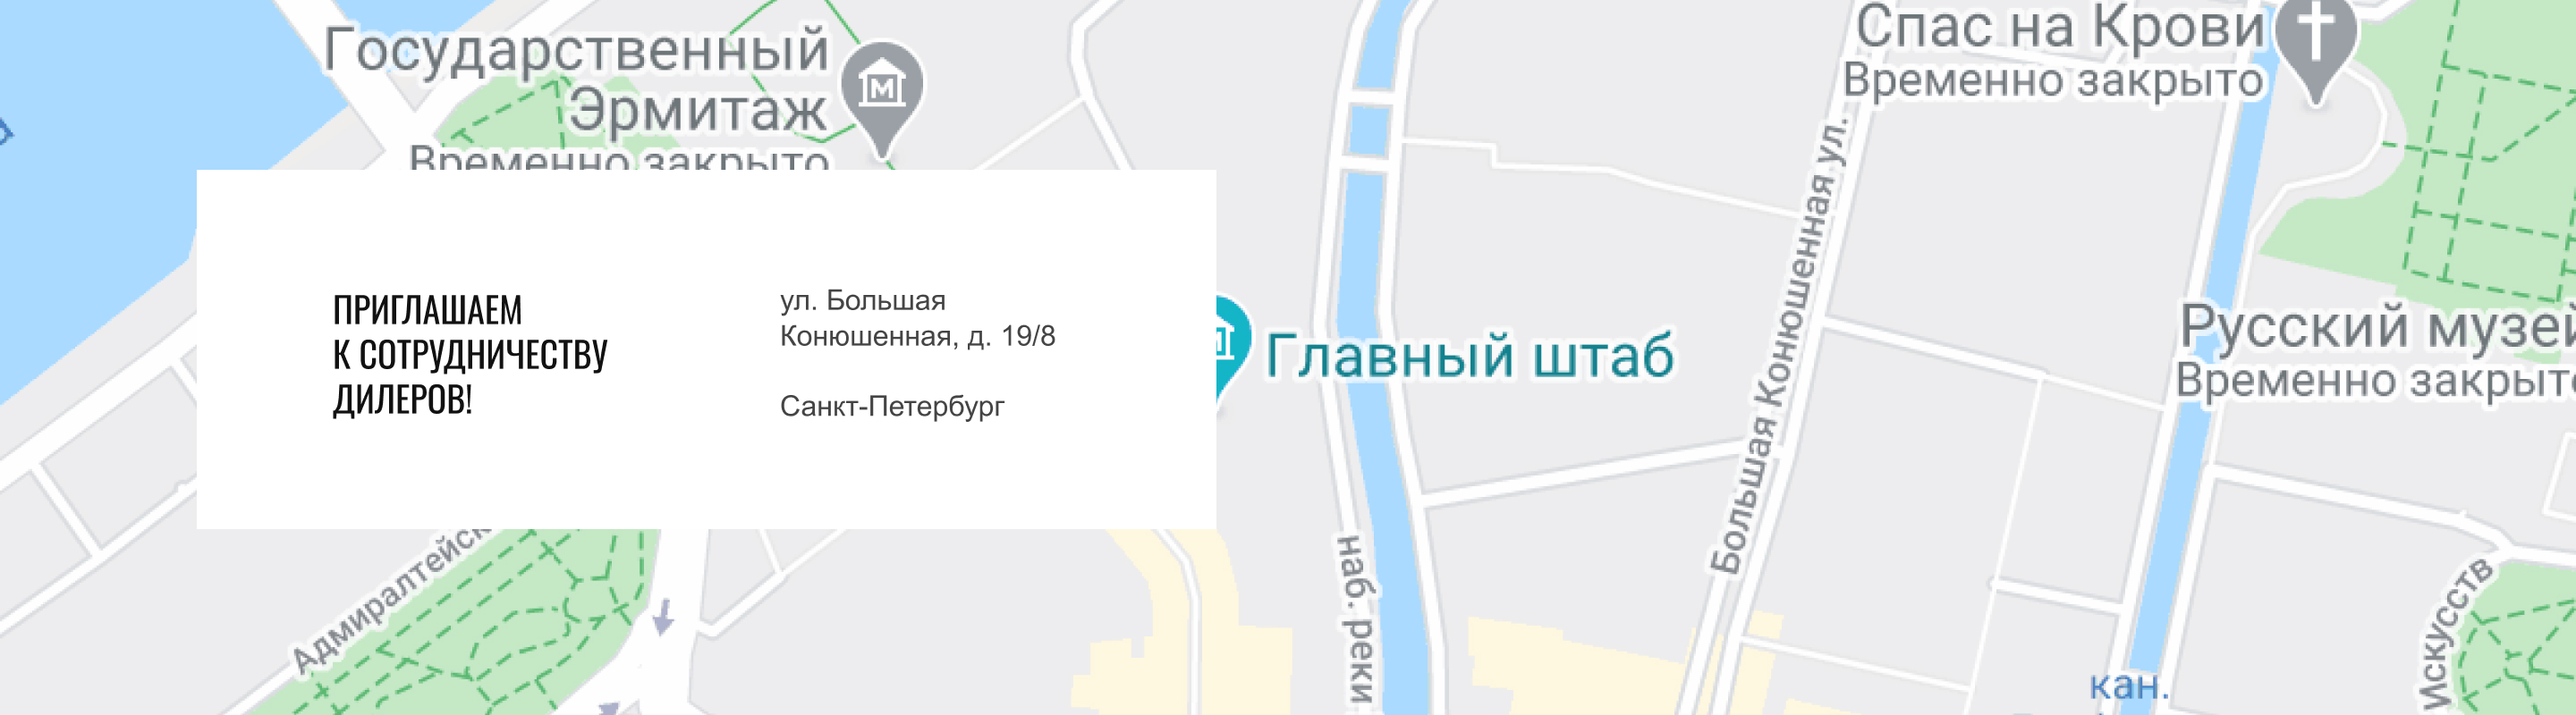
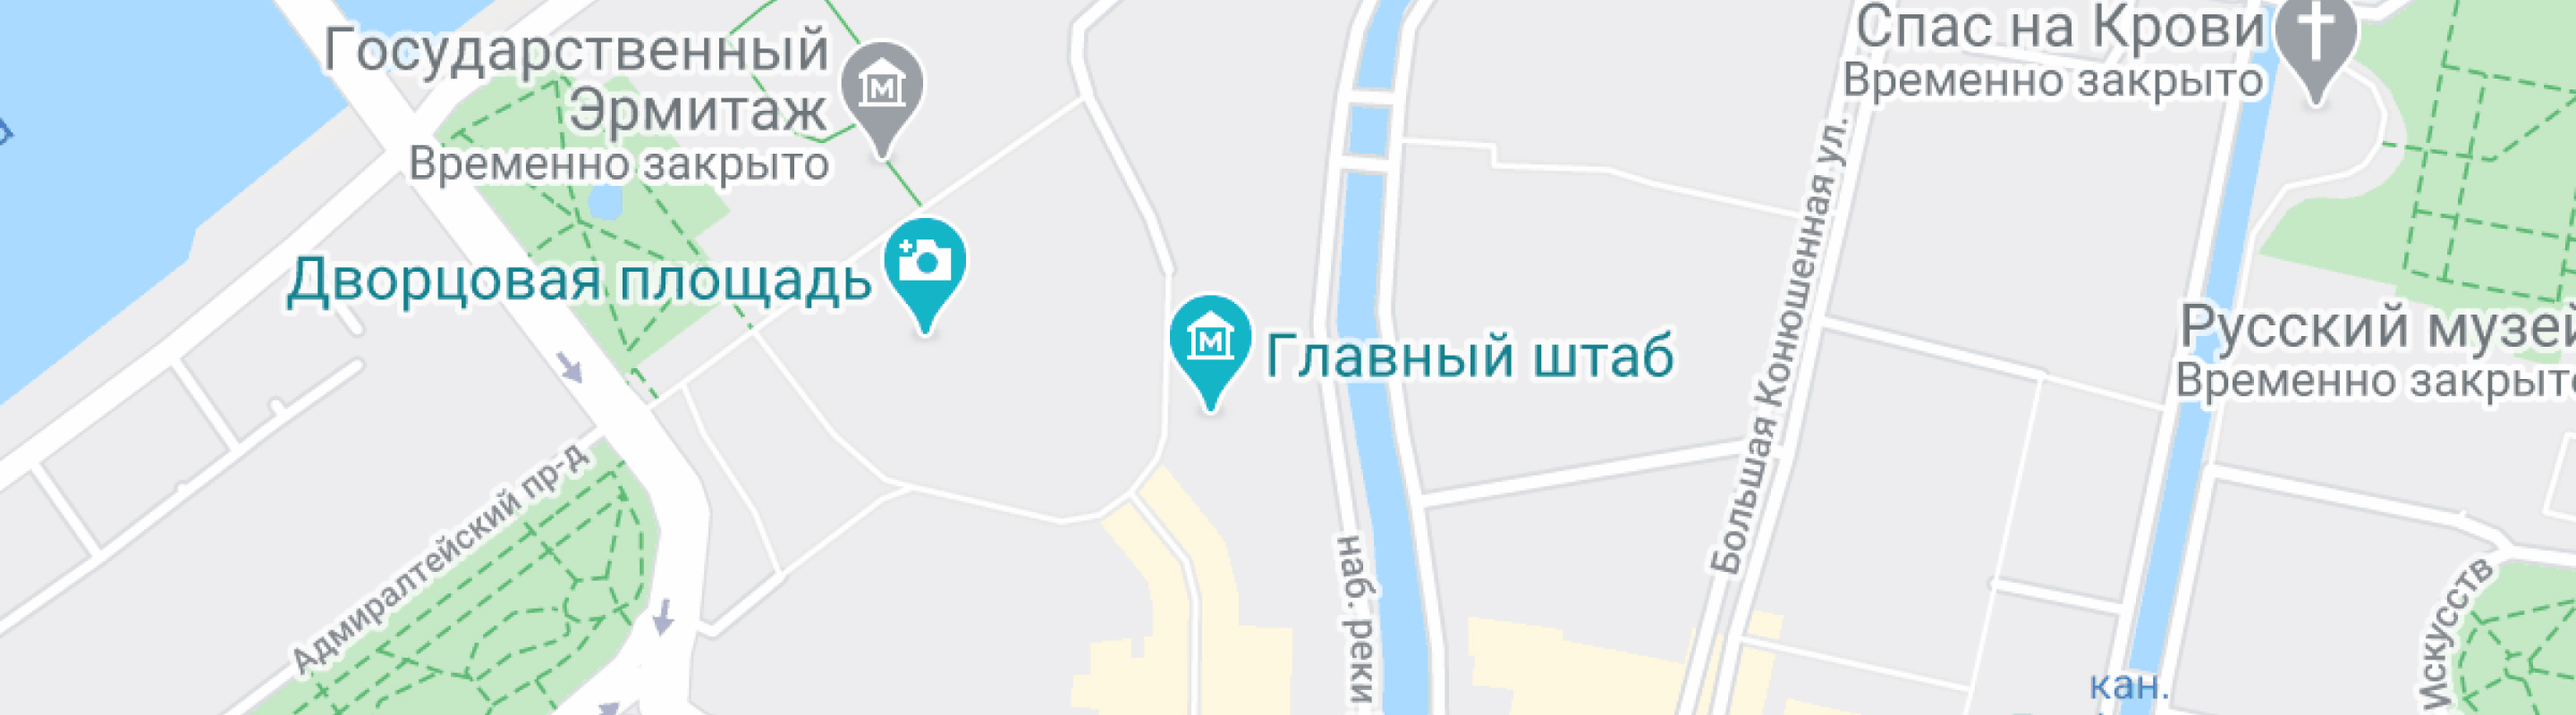
Исправляет карту

diff --git a/source/sass/blocks/find-us.scss b/source/sass/blocks/find-us.scss
@@ -82,7 +82,7 @@
 
   @media (min-resolution: 2dppx) {
     background-image: url("../img/find-us/find-us-map-mini@2x.jpg");
-    background-size: 320px auto;
+    background-size: cover;
   }
 
   @media (min-width: $tablet-width) {
@@ -91,7 +91,7 @@
 
     @media (min-resolution: 2dppx) {
       background-image: url("../img/find-us/find-us-map-medium@2x.jpg");
-      background-size: 768px auto;
+      background-size: cover;
     }
   }
 
@@ -101,7 +101,7 @@
 
     @media (min-resolution: 2dppx) {
       background-image: url("../img/find-us/find-us-map-max@2x.jpg");
-      background-size: 1440px auto;
+      background-size: cover;
     }
   }
 }
